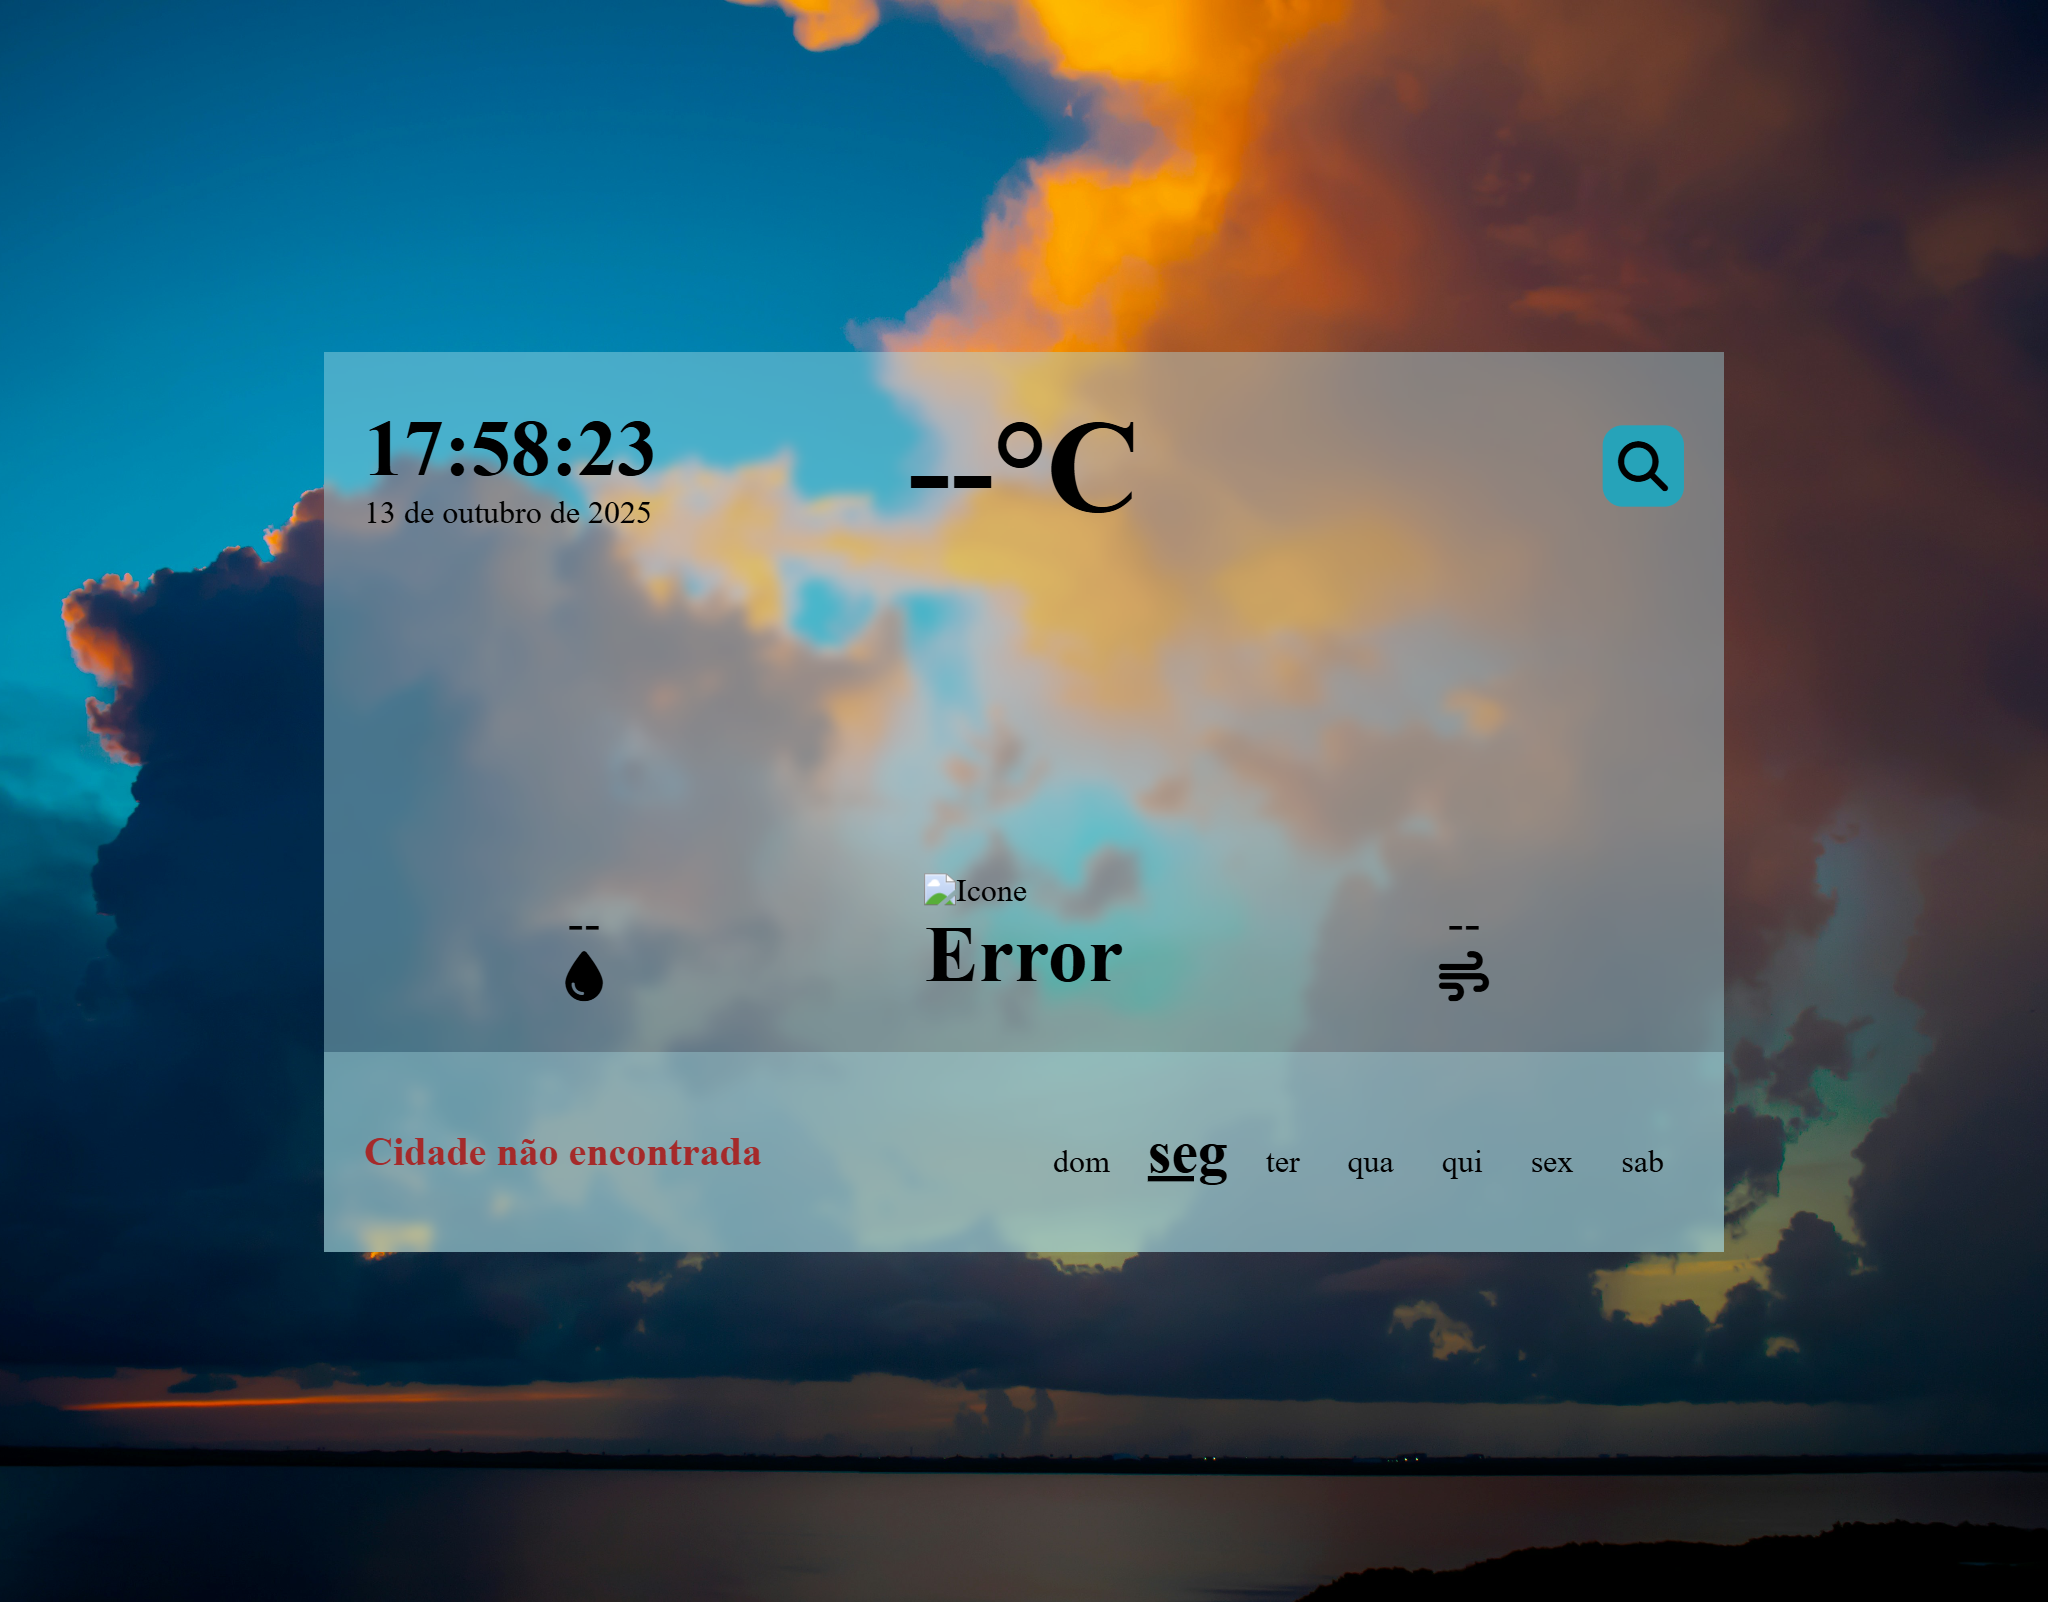
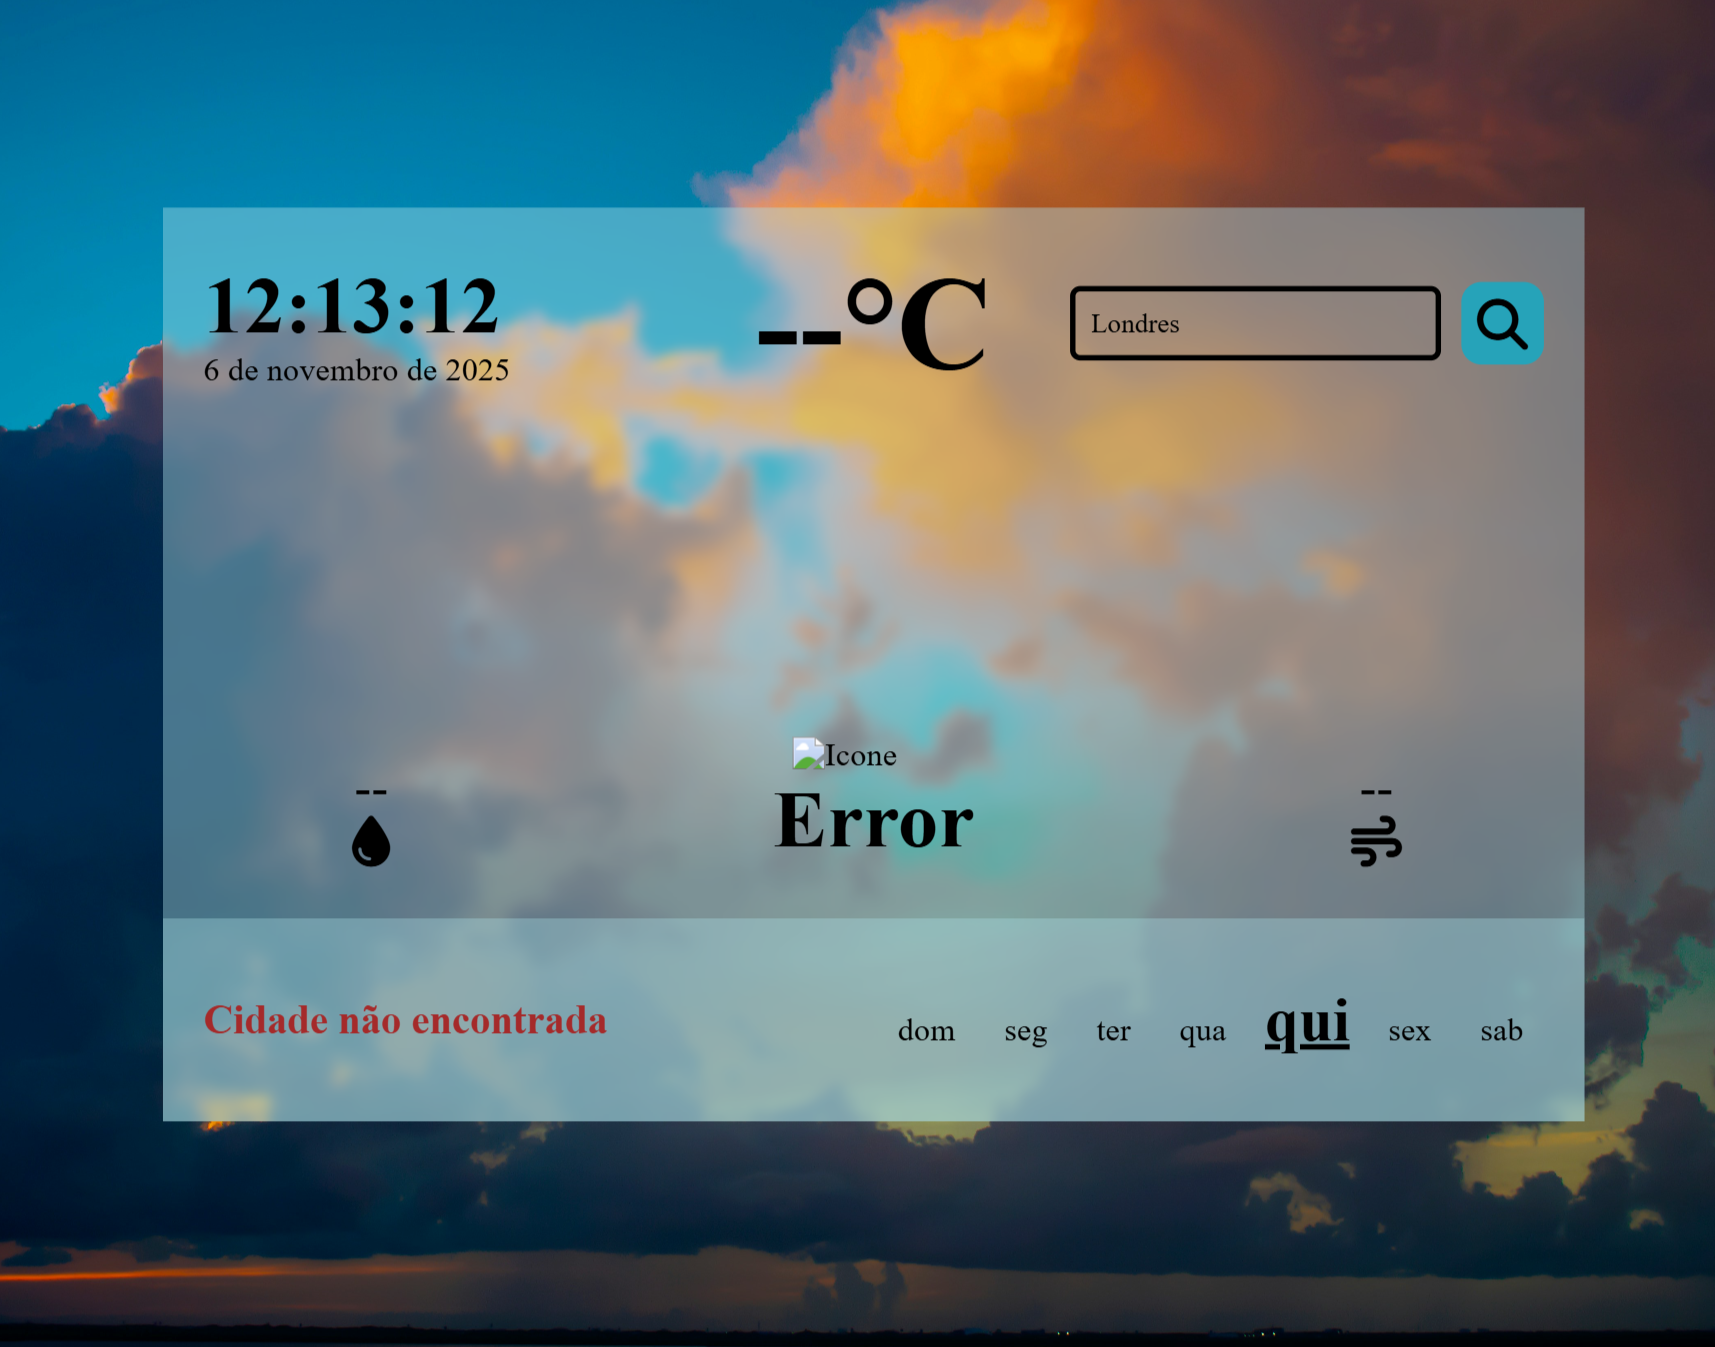
Version 2.1 - Dynamic Background
Integrate Unsplash API for dynamic city backgrounds, update styles and package.json configuration

diff --git a/code/script.js b/code/script.js
@@ -104,18 +104,23 @@ async function showWeather(city) {
     const data = await getWeather(city)
     console.log("Dados da API:", data)
 
-    if (!data || data.cod === "404") {
+    if (!data || !data.weather || data.weather.cod === "404") {
         showErrorMessage()
         return
     }
 
-    spanTemp.innerText = parseInt(data.main.temp)
-    humidity.innerText = `${data.main.humidity}%`
-    iconWeather.setAttribute('src', `http://openweathermap.org/img/wn/${data.weather[0].icon}.png`)
-    spanWeather.innerText = data.weather[0].description.charAt(0).toUpperCase() + data.weather[0].description.slice(1)
-    wind.innerText = `${data.wind.speed} km/h`
-    flagCountry.setAttribute('src', `https://flagsapi.com/xx/flat/64.png`.replace('xx', data.sys.country))
-    cityName.innerText = data.name
+    const dw = data.weather
+    
+    spanTemp.innerText = parseInt(dw.main.temp)
+    humidity.innerText = `${dw.main.humidity}%`
+    iconWeather.setAttribute('src', `http://openweathermap.org/img/wn/${dw.weather[0].icon}.png`)
+    spanWeather.innerText = dw.weather[0].description.toLowerCase().split(' ').map(word => word.charAt(0).toUpperCase() + word.slice(1)).join(' ')
+    wind.innerText = `${dw.wind.speed} km/h`
+
+    flagCountry.setAttribute('src', `https://flagsapi.com/xx/flat/64.png`.replace('xx', dw.sys.country))
+    cityName.innerText = dw.name
+
+    document.body.style.backgroundImage = `url(${data.image})`;
 
     msgError.classList.add('hidden')
     flagCountry.classList.remove('hidden')

diff --git a/server/server.js b/server/server.js
@@ -9,10 +9,11 @@ const app = express()
 app.use(cors())
 
 const PORT = process.env.PORT || 3000
-const API_KEY = process.env.API_WEATHER
+const API_WEATHER = process.env.API_WEATHER
+const API_UNSPLASH = process.env.API_UNSPLASH
 
-if (!API_KEY) {
-    console.error('ERROR: Variável API_WEATHER não encontrada no arquivo .env')
+if (!API_WEATHER || !API_UNSPLASH) {
+    console.error('[ERROR] Variável não encontrada no arquivo .env')
     process.exit(1)
 }
 
@@ -24,11 +25,20 @@ app.get('/weather', async (req, res) => {
     }
 
     try {
-        const weatherUrl = `https://api.openweathermap.org/data/2.5/weather?q=${encodeURIComponent(city)}&units=metric&appid=${API_KEY}&lang=pt_br`
+        const weatherUrl = `https://api.openweathermap.org/data/2.5/weather?q=${encodeURIComponent(city)}&units=metric&appid=${API_WEATHER}&lang=pt_br`
+        const unsplashUrl = `https://api.unsplash.com/photos/random?query=${encodeURIComponent(city)}&client_id=${API_UNSPLASH}&orientation=landscape`
+
         console.log("[INFO] Buscando clima:", city)
 
-        const response = await axios.get(weatherUrl)
-        res.json(response.data)
+        const [weatherRes, unsplashRes] = await Promise.all([
+            axios.get(weatherUrl),
+            axios.get(unsplashUrl)
+        ])
+
+        res.json({
+            weather: weatherRes.data,
+            image: unsplashRes.data.urls.regular
+        })
 
     } catch (error) {
         console.error("[ERROR] Requisição falhou:", error)

diff --git a/code/style.css b/code/style.css
@@ -130,17 +130,22 @@ body {
 .details {
     display: flex;
     align-items: end;
+    height: 100%;
 }
 
 #humidity, #weather, #wind {
     display: flex;
     flex-direction: column;
     align-items: center;
-    width: 220px;
 }
 
 #humidity, #wind {
     font-size: 25px;
+    width: 165px;
+}
+
+#weather {
+    width: 330px;
 }
 
 #weather span {

diff --git a/README.md b/README.md
@@ -1,24 +1,27 @@
 # Atmosfera Pro
-O Atmosfera Pro é uma versão que visa melhorar o **UI/UX Design** do Tempo Exato! e integrar um **servidor back-end** para ocultar informações sensíveis.
+O Atmosfera Pro é uma versão que visa melhorar o **UI/UX Design** do Tempo Exato! (Commit Version 1) e integrar um **servidor back-end** para ocultar informações sensíveis.
 
 ### ☀ Funcionalidades
 - Permite ao usuário buscar informações climáticas de diferentes localidades
-- Fornece sugestões de Capitais de diversos países na tela inicial
+- Fornece sugestões de capitais de diversos países na tela inicial
 - Mostra dados de data, hora e dia da semana atualizados em tempo real
 - Exibe dados de condições climáticas e temperatura, nome da cidade e a bandeira do país
+- Muda o background conforme a cidade pesquisada
 
 ### 🖥 Tecnologias utilizada
 - HTML5, CSS3 e JS
 - Node.js e bibliotecas
 - API OpenWeatherMap
+- API Unsplash
 
 ### 🗝 Configuração do Server
 1. Crie uma conta e obtenha uma chave da API
-- Acesse: https://home.openweathermap.org/api_keys
-- Crie uma chave gratuita (API Key) para seu usuário.
+- Weather: https://home.openweathermap.org/api_keys
+- Unsplash: https://unsplash.com/developers
 2. Na pasta `server/` crie um arquivo chamado `.env` com o conteúdo:
 ```
 API_WEATHER = SUA_API_KEY
+API_UNSPLASH = SUA_API_KEY
 ```
 3. Instale as dependências
 ``` 
@@ -31,11 +34,11 @@ npm run server
 
 ## Screenshots
 <div>
-  <h3>Home - Result - Error Handling</h3>
-  <img width="400" src="./assets/screenshots/home.png" />
-  <img width="400" src="./assets/screenshots/result.png" />
-  <img width="400" src="./assets/screenshots/error.png" />
+  <h3>Home - Error Handling - Result</h3>
+  <img width="266" src="./assets/screenshots/home.png" />
+  <img width="266" src="./assets/screenshots/error.png" />
+  <img width="266" src="./assets/screenshots/result.png" />
 </div>
 
 ### 🎨 Créditos
-Baseado no layout criado por [Dan Tsonkov](https://www.dantsonkov.com/), disponível em [Dibbble](https://dribbble.com/shots/2232422-004-Weather-Widget).
+Baseado no layout criado por [Dan Tsonkov](https://www.dantsonkov.com/), disponível em [Dribbble](https://dribbble.com/shots/2232422-004-Weather-Widget).
